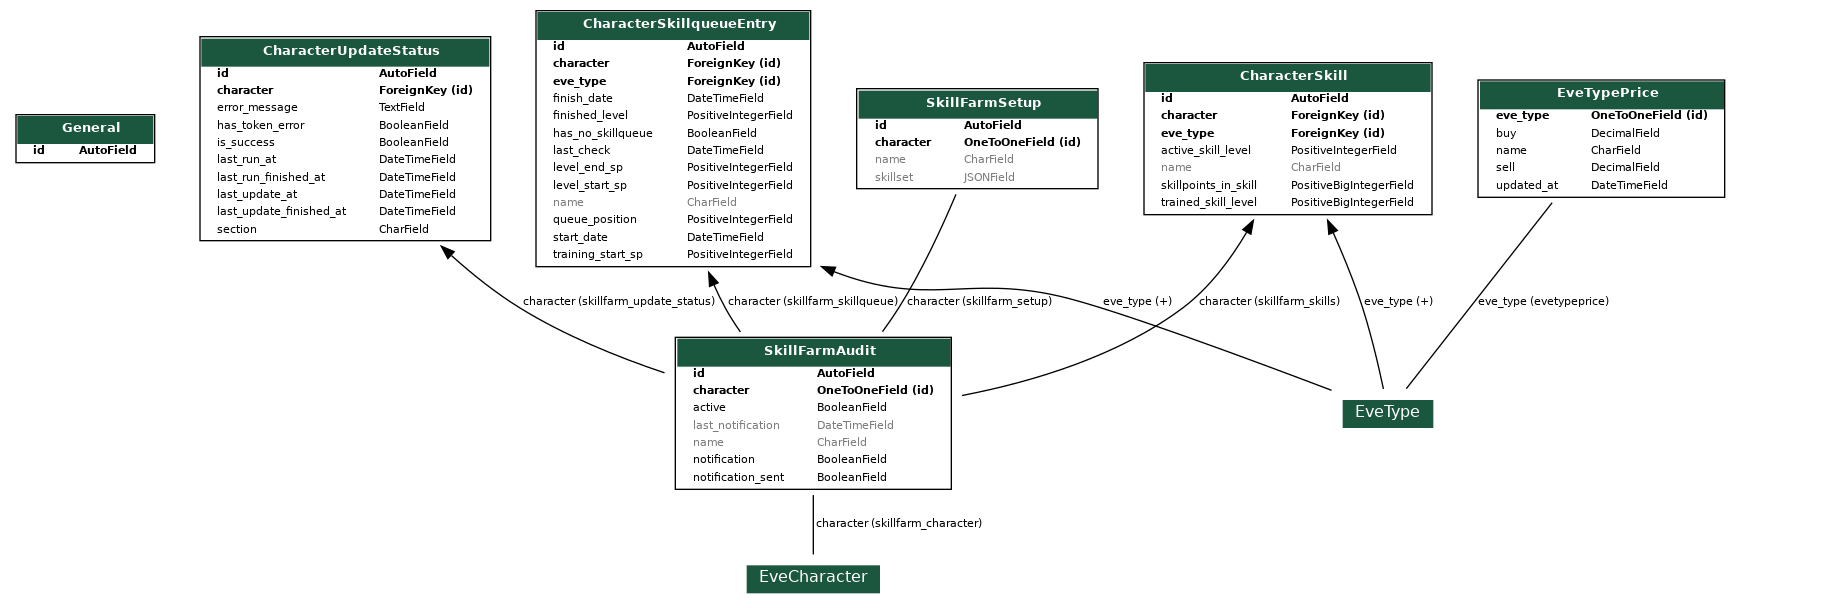
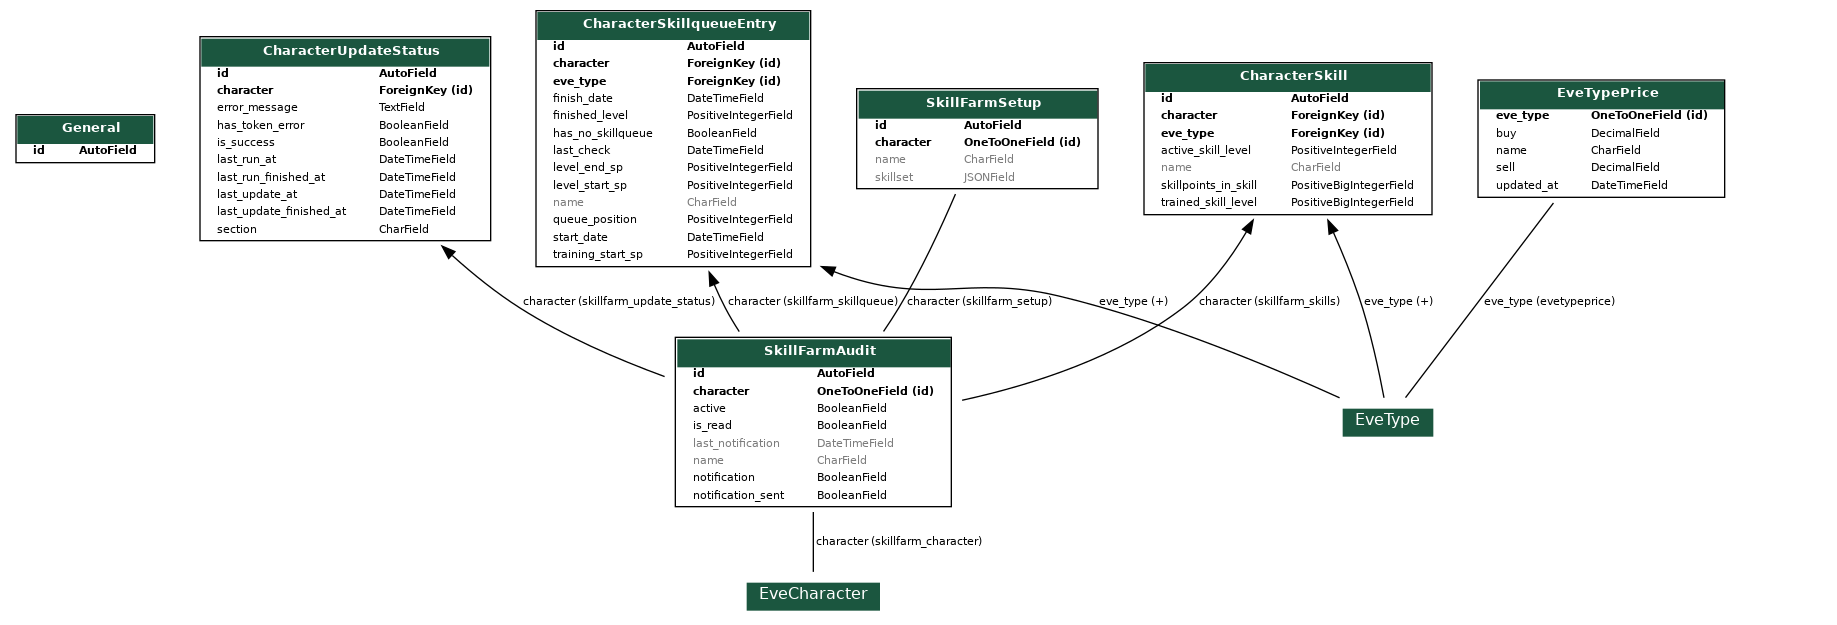
[RELEASE] v1.0.5

diff --git a/skillfarm/__init__.py b/skillfarm/__init__.py
@@ -1,6 +1,6 @@
 """Initialize the app"""
 
-__version__ = "1.0.4"
+__version__ = "1.0.5"
 __title__ = "Skillfarm"
 
 __package_name__ = "aa-skillfarm"

diff --git a/CHANGELOG.md b/CHANGELOG.md
@@ -11,10 +11,27 @@ Section Order:
 ### Removed
 -->
 
+## [1.0.5] - 2026-02-23
+
 ### Added
 
+- Mark as Read for Inactive Characters
 - `is_orphan` Property to check if a Character is not owned anymore
 - `character_ownership` Property for checking ownership
+- add tests for perform_update_status handling token and HTTPServer errors
+- optimized `get_token` function
+
+### Changed
+
+- Update skillfarm task schedule from crontab to 1800 seconds
+- Enhanced task logic to skip updates for orphan characters.
+- Update `django-esi` Stub
+- Handle RequestError in retry_task_on_esi_error function
+
+### Removed
+
+- remove unused import and handle HTTPServerError in SkillFarmAudit
+- HTTPServerError Catch it is now handled by `retry_task_on_esi_error`
 
 ## [1.0.4] - 2025-12-22
 
@@ -514,5 +531,6 @@ This will load all necessary prices
 [1.0.2]: https://github.com/Geuthur/aa-skillfarm/compare/v1.0.1...v1.0.2 "1.0.2"
 [1.0.3]: https://github.com/Geuthur/aa-skillfarm/compare/v1.0.2...v1.0.3 "1.0.3"
 [1.0.4]: https://github.com/Geuthur/aa-skillfarm/compare/v1.0.3...v1.0.4 "1.0.4"
-[in development]: https://github.com/Geuthur/aa-skillfarm/compare/v1.0.4...HEAD "In Development"
+[1.0.5]: https://github.com/Geuthur/aa-skillfarm/compare/v1.0.4...v1.0.5 "1.0.45"
+[in development]: https://github.com/Geuthur/aa-skillfarm/compare/v1.0.5...HEAD "In Development"
 [report any issues]: https://github.com/Geuthur/aa-skillfarm/issues "report any issues"
